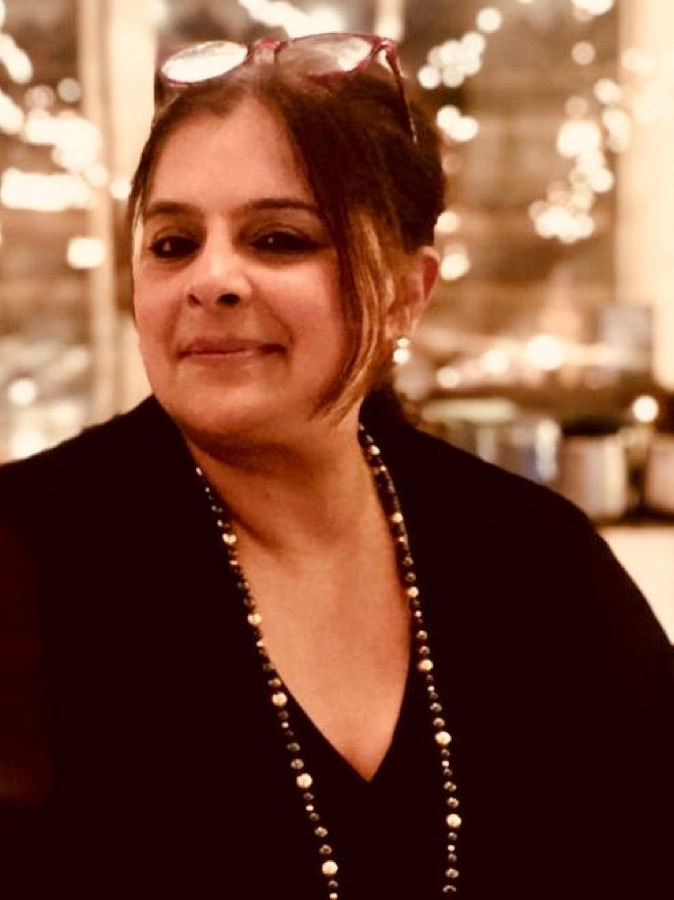
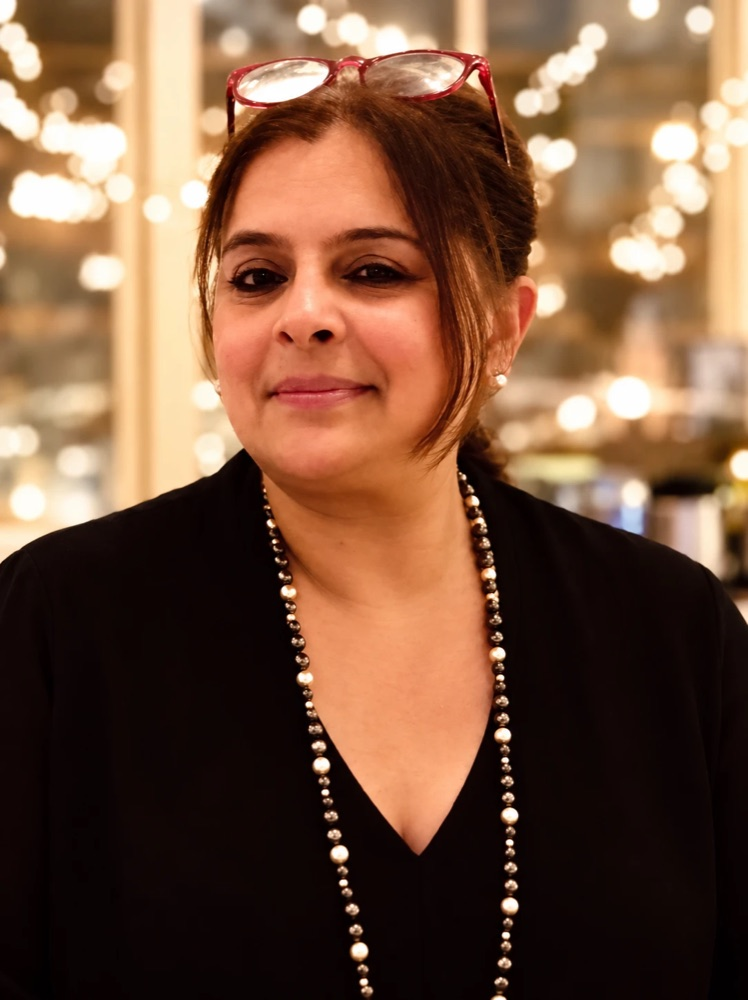
New photos for Shivas and Reshma Nath; name Kanwar Vilas Nath

diff --git a/team.html b/team.html
@@ -4,12 +4,12 @@
   <meta charset="UTF-8" />
   <meta name="viewport" content="width=device-width, initial-scale=1.0" />
   <title>Our Team: Leadership &amp; Heads of Department | Naath Industries</title>
-  <meta name="description" content="Meet the leadership of Naath Industries Pvt. Ltd.: founder Vilas Nath, directors Reshma Nath and Shivas Nath, and our heads of department." />
+  <meta name="description" content="Meet the leadership of Naath Industries Pvt. Ltd.: founder Kanwar Vilas Nath, directors Reshma Nath and Shivas Nath, and our heads of department." />
   <meta name="keywords" content="Naath Industries team, Vilas Nath, Reshma Nath, Shivas Nath, indenting house India" />
   <link rel="canonical" href="https://naath.in/team.html" />
   <meta property="og:type" content="website" />
   <meta property="og:title" content="Our Team: Leadership &amp; Heads of Department | Naath Industries" />
-  <meta property="og:description" content="Meet the leadership of Naath Industries Pvt. Ltd.: founder Vilas Nath, directors Reshma Nath and Shivas Nath, and our heads of department." />
+  <meta property="og:description" content="Meet the leadership of Naath Industries Pvt. Ltd.: founder Kanwar Vilas Nath, directors Reshma Nath and Shivas Nath, and our heads of department." />
   <meta property="og:url" content="https://naath.in/team.html" />
   <meta property="og:image" content="https://naath.in/images/trade.jpg" />
   <link rel="preconnect" href="https://fonts.googleapis.com" />
@@ -84,8 +84,8 @@
       </div>
       <div class="team-grid leaders">
         <div class="person-card lead reveal">
-          <img class="person-photo" src="images/team/vilas-nath.jpg" alt="Vilas Nath, Founder" loading="lazy" />
-          <h3>Vilas Nath</h3>
+          <img class="person-photo" src="images/team/kanwar-vilas-nath.jpg" alt="Kanwar Vilas Nath, Founder" loading="lazy" />
+          <h3>Kanwar Vilas Nath</h3>
           <div class="person-role">Founder</div>
           <p class="person-bio">Founded the company in 1980 and built its global network of suppliers and clients across India.</p>
         </div>
